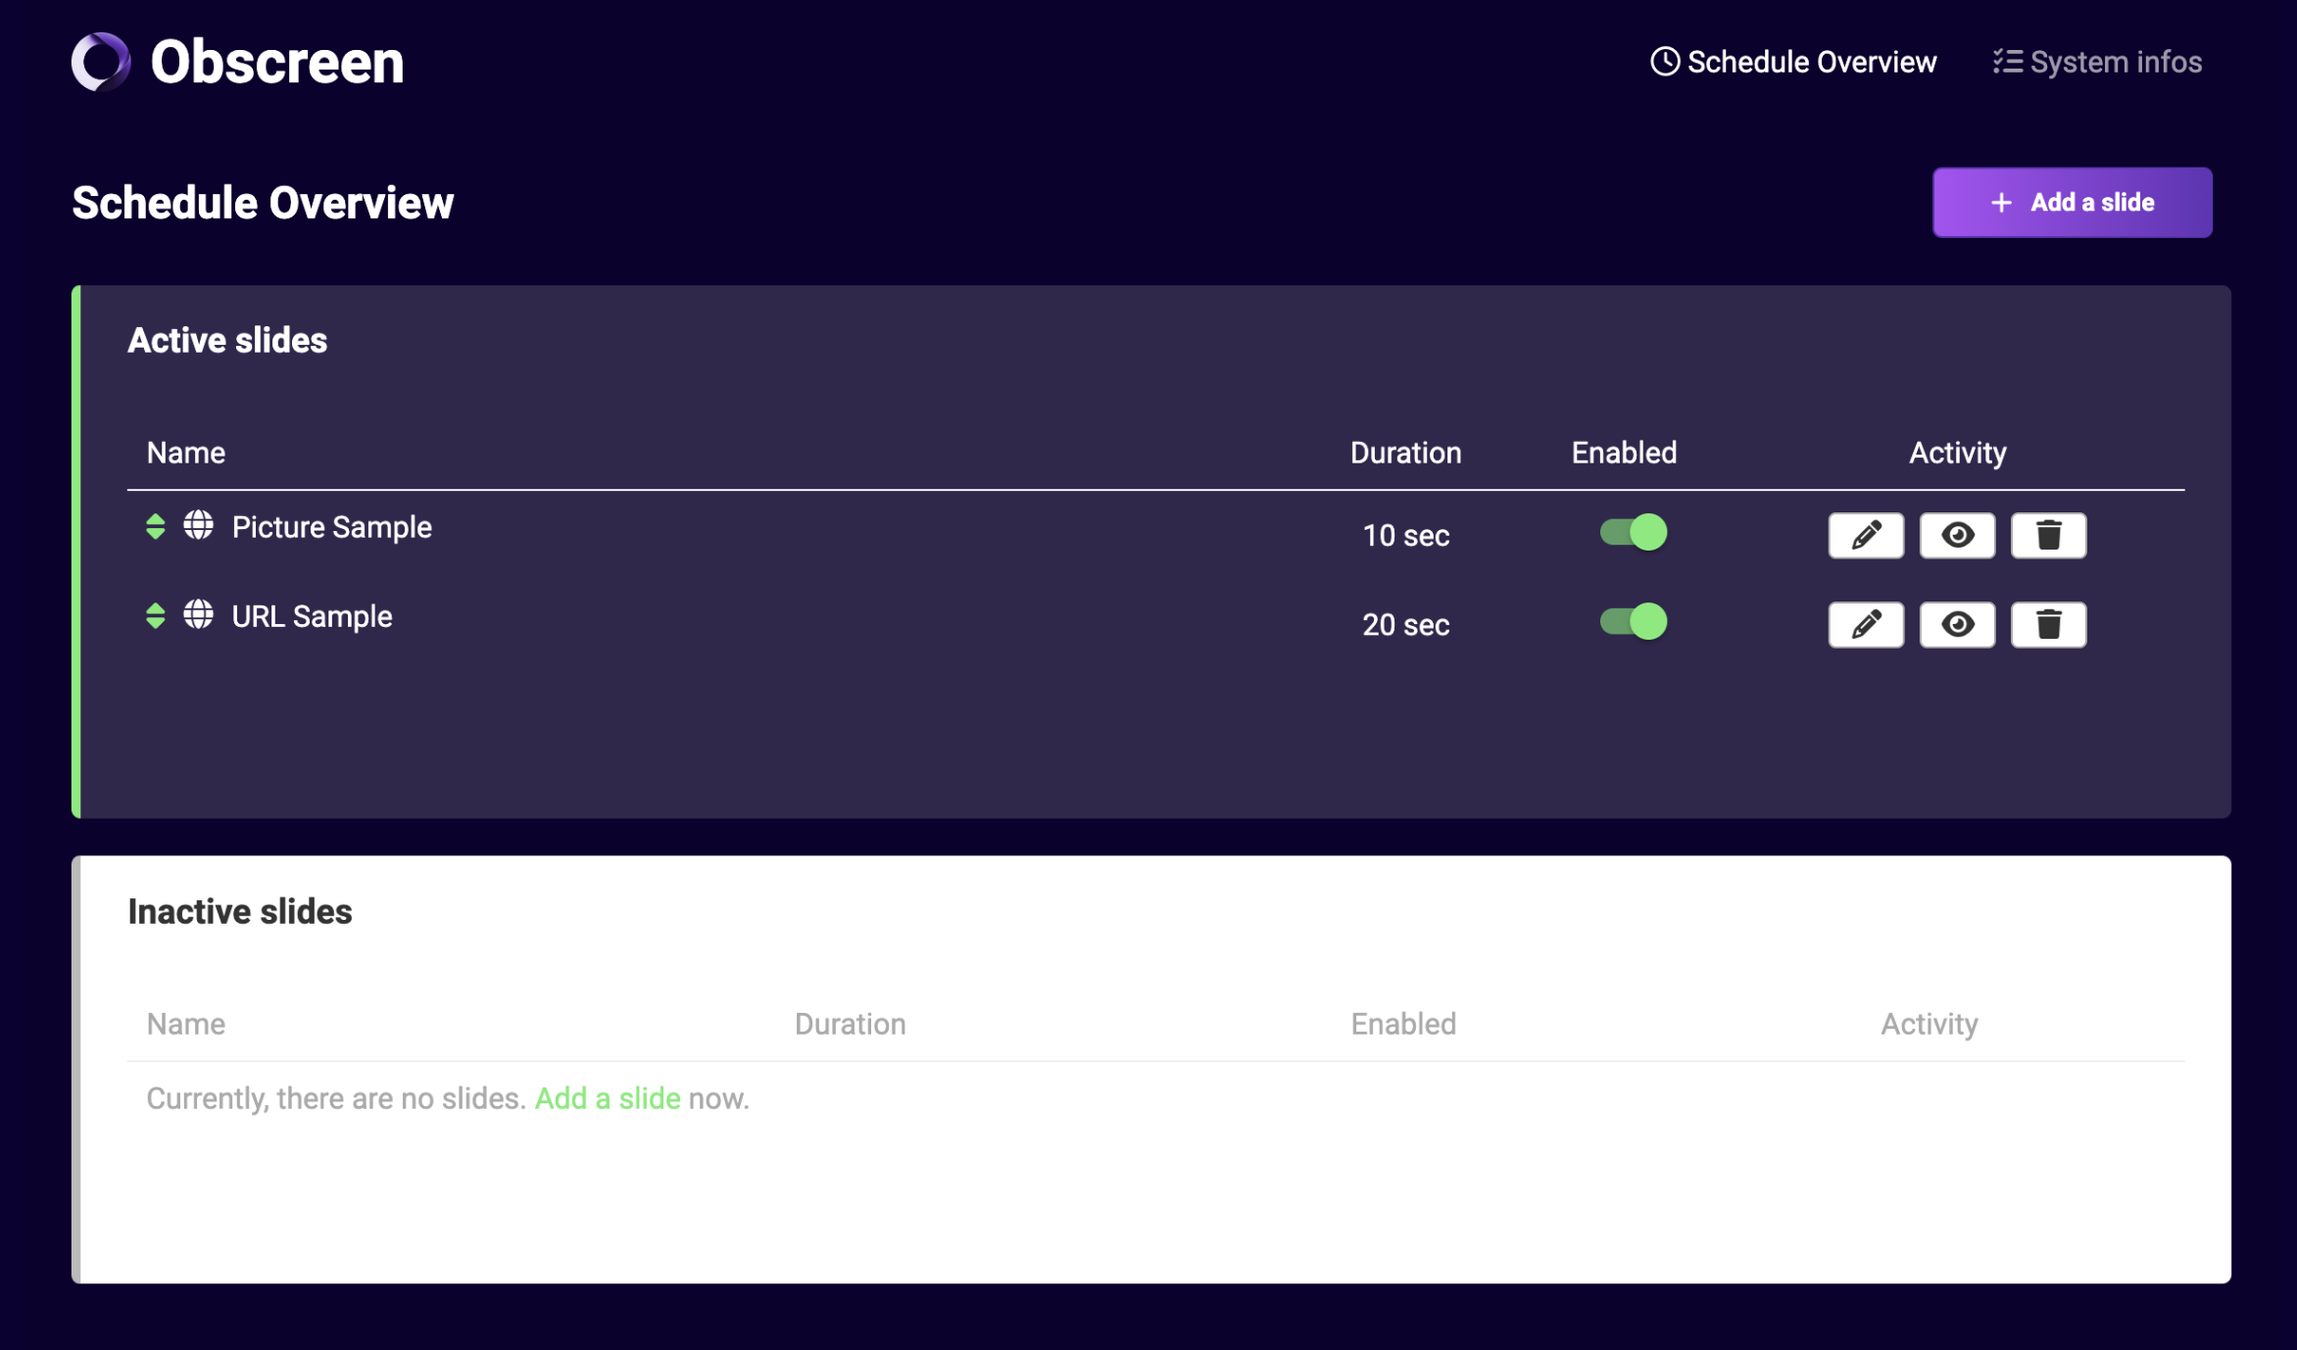
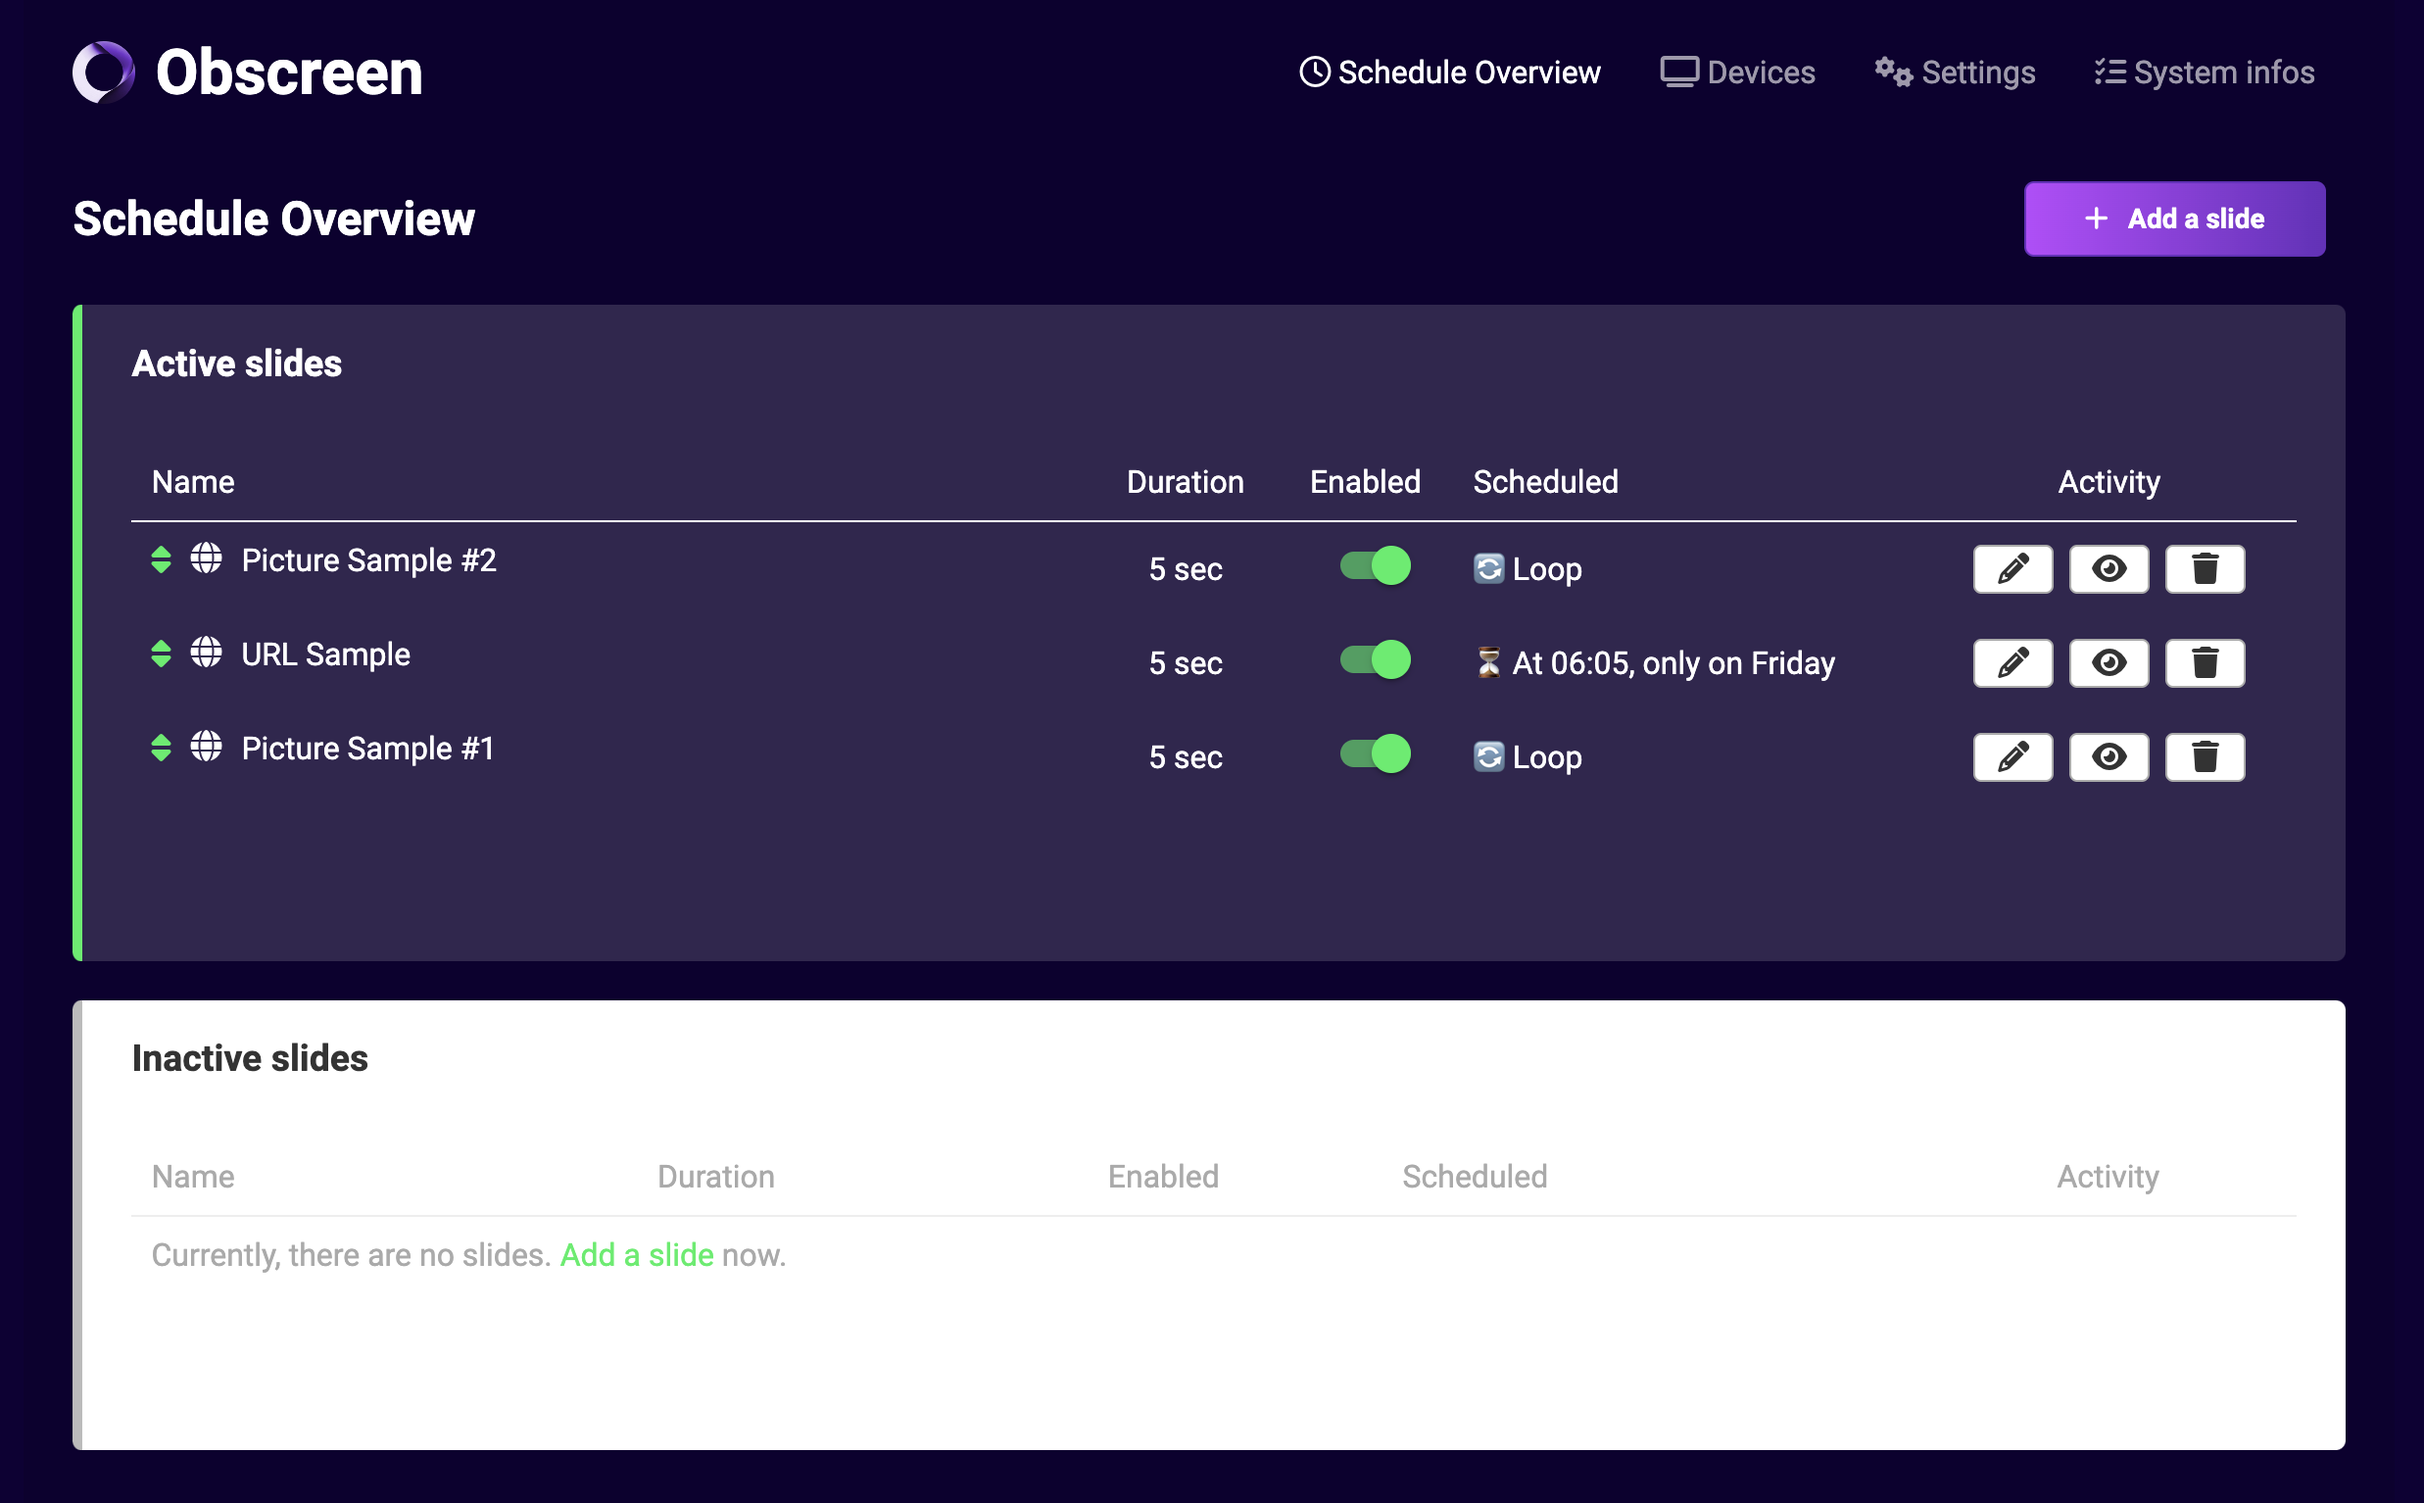
cron schedule fully working on backend

diff --git a/data/www/js/slideshow.js b/data/www/js/slideshow.js
@@ -49,7 +49,7 @@ jQuery(document).ready(function ($) {
         });
     };
 
-    $(document).on('change', 'input[type=checkbox]', function () {
+    $(document).on('change', '.slide-item input[type=checkbox]', function () {
         $.ajax({
             url: '/slideshow/slide/toggle',
             headers: {'Content-Type': 'application/json'},
@@ -66,6 +66,16 @@ jQuery(document).ready(function ($) {
         }
 
         updateTable();
+    });
+
+    $(document).on('change', '.modal-slide input[type=checkbox]', function () {
+        const $target = $('#'+ $(this).attr('id').replace('-trigger', ''));
+        const hide = !$(this).is(':checked');
+        $target.toggleClass('hidden', hide);
+
+        if (hide) {
+            $target.val('');
+        }
     });
 
     $(document).on('change', '#slide-add-type', function () {
@@ -95,11 +105,14 @@ jQuery(document).ready(function ($) {
     $(document).on('click', '.slide-edit', function () {
         const slide = JSON.parse($(this).parents('tr:eq(0)').attr('data-entity'));
         showModal('modal-slide-edit');
+        const hasCron = slide.cron_schedule && slide.cron_schedule.length > 0;
         $('.modal-slide-edit input:visible:eq(0)').focus().select();
         $('#slide-edit-name').val(slide.name);
         $('#slide-edit-type').val(slide.type);
         $('#slide-edit-location').val(slide.location);
         $('#slide-edit-duration').val(slide.duration);
+        $('#slide-edit-cron-schedule').val(slide.cron_schedule).toggleClass('hidden', !hasCron);
+        $('#slide-edit-cron-schedule-trigger').prop('checked', hasCron);
         $('#slide-edit-id').val(slide.id);
     });
 

diff --git a/views/slideshow/component/table.jinja.html b/views/slideshow/component/table.jinja.html
@@ -4,6 +4,7 @@
         <th>{{ l.slideshow_slide_panel_th_name }}</th>
         <th class="tac">{{ l.slideshow_slide_panel_th_duration }}</th>
         <th class="tac">{{ l.slideshow_slide_panel_th_enabled }}</th>
+        <th class="">{{ l.slideshow_slide_panel_th_cron_scheduled }}</th>
         <th class="tac">{{ l.slideshow_slide_panel_th_activity }}</th>
     </tr>
     </thead>
@@ -41,6 +42,18 @@
                 <label class="pure-material-switch">
                     <input type="checkbox" {% if slide.enabled %}checked="checked"{% endif %}><span></span>
                 </label>
+            </td>
+            <td class="">
+                {% if slide.cron_schedule %}
+                    {% set cron_desc = cron_descriptor(slide.cron_schedule)  %}
+                    {% if cron_desc %}
+                        ⏳ {{ cron_desc }}
+                    {% else %}
+                        <span class="error">⚠ {{ l.slideshow_slide_panel_td_cron_scheduled_bad_cron }}</span>
+                    {% endif %}
+                {% else %}
+                    🔄 {{ l.slideshow_slide_panel_td_cron_scheduled_loop }}
+                {% endif %}
             </td>
             <td class="actions tac">
                 <a href="javascript:void(0);" class="item-edit slide-edit">

diff --git a/views/slideshow/modal/edit.jinja.html b/views/slideshow/modal/edit.jinja.html
@@ -1,4 +1,4 @@
-<div class="modal modal-slide-edit hidden">
+<div class="modal modal-slide-edit modal-slide hidden">
     <h2>
         {{ l.slideshow_slide_form_edit_submit }}
     </h2>
@@ -35,6 +35,14 @@
             <div class="widget">
                 <input type="number" name="duration" id="slide-edit-duration" required="required" />
                 <span>{{ l.slideshow_slide_form_label_duration_unit }}</span>
+            </div>
+        </div>
+
+        <div class="form-group">
+            <label for="slide-edit-cron-schedule">{{ l.slideshow_slide_form_label_cron_scheduled }}</label>
+            <div class="widget">
+                <input type="checkbox" id="slide-edit-cron-schedule-trigger" class="trigger" />
+                <input type="text" name="cron_schedule" id="slide-edit-cron-schedule" placeholder="{{ l.slideshow_slide_form_widget_cron_scheduled_placeholder }}" class="hidden" />
             </div>
         </div>
 

diff --git a/views/slideshow/modal/add.jinja.html b/views/slideshow/modal/add.jinja.html
@@ -1,4 +1,4 @@
-<div class="modal modal-slide-add">
+<div class="modal modal-slide-add modal-slide">
     <h2>
         {{ l.slideshow_slide_form_add_title }}
     </h2>
@@ -35,6 +35,14 @@
             <div class="widget">
                 <input type="number" name="duration" id="slide-add-duration" required="required" />
                 <span>{{ l.slideshow_slide_form_label_duration_unit }}</span>
+            </div>
+        </div>
+
+         <div class="form-group">
+            <label for="slide-add-cron-schedule">{{ l.slideshow_slide_form_label_cron_scheduled }}</label>
+            <div class="widget">
+                <input type="checkbox" id="slide-add-cron-schedule-trigger" class="trigger" />
+                <input type="text" name="cron_schedule" id="slide-add-cron-schedule" placeholder="{{ l.slideshow_slide_form_widget_cron_scheduled_placeholder }}" class="hidden" />
             </div>
         </div>
 

diff --git a/data/www/css/main.css b/data/www/css/main.css
@@ -512,6 +512,14 @@ form .form-group textarea {
     width: auto;
 }
 
+form .form-group input[type=checkbox] {
+    flex: 0;
+}
+
+form .form-group input[type=checkbox].trigger {
+    margin-right: 10px;
+}
+
 form .form-group span {
     margin-left: 10px;
 }

diff --git a/src/service/TemplateRenderer.py b/src/service/TemplateRenderer.py
@@ -1,6 +1,8 @@
 import os
 
 from flask import Flask, send_from_directory, Markup
+from cron_descriptor import ExpressionDescriptor
+from cron_descriptor.Exception import FormatException, WrongArgumentException, MissingFieldException
 from typing import List
 from jinja2 import Environment, FileSystemLoader, select_autoescape
 from src.service.ModelStore import ModelStore
@@ -18,6 +20,22 @@ class TemplateRenderer:
         self._model_store = model_store
         self._render_hook = render_hook
 
+    def cron_descriptor(self, expression: str, use_24hour_time_format=True) -> str:
+        try:
+            return str(
+                ExpressionDescriptor(
+                    expression=expression,
+                    use_24hour_time_format=use_24hour_time_format,
+                    locale_code=self._model_store.lang().get_locale(local_with_country=True)
+                )
+            )
+        except FormatException:
+            return ''
+        except WrongArgumentException:
+            return ''
+        except MissingFieldException:
+            return ''
+
     def get_view_globals(self) -> dict:
         globals = dict(
             STATIC_PREFIX="/{}/{}/".format(WebDirConstant.FOLDER_STATIC, WebDirConstant.FOLDER_STATIC_WEB_ASSETS),
@@ -25,6 +43,7 @@ class TemplateRenderer:
             VERSION=self._model_store.config().map().get('version'),
             LANG=self._model_store.variable().map().get('lang').as_string(),
             HOOK=self._render_hook,
+            cron_descriptor=self.cron_descriptor
         )
 
         for hook in HookType:

diff --git a/src/model/entity/Slide.py b/src/model/entity/Slide.py
@@ -7,14 +7,14 @@ from src.utils import str_to_enum
 
 class Slide:
 
-    def __init__(self, location: str = '', duration: int = 3, type: Union[SlideType, str] = SlideType.URL, enabled: bool = False, name: str = 'Untitled', position: int = 999, id: Optional[str] = None, cron_schedule: str = ''):
+    def __init__(self, location: str = '', duration: int = 3, type: Union[SlideType, str] = SlideType.URL, enabled: bool = False, name: str = 'Untitled', position: int = 999, id: Optional[str] = None, cron_schedule: Optional[str] = None):
         self._id = id if id else None
         self._location = location
         self._duration = duration
         self._type = str_to_enum(type, SlideType) if isinstance(type, str) else type
         self._enabled = enabled
         self._name = name
-        self._position = position,
+        self._position = position
         self._cron_schedule = cron_schedule
 
     @property
@@ -38,11 +38,11 @@ class Slide:
         self._type = value
 
     @property
-    def cron_schedule(self) -> str:
+    def cron_schedule(self) -> Optional[str]:
         return self._cron_schedule
 
     @cron_schedule.setter
-    def cron_schedule(self, value: str):
+    def cron_schedule(self, value: Optional[str]):
         self._cron_schedule = value
 
     @property

diff --git a/src/controller/SlideshowController.py b/src/controller/SlideshowController.py
@@ -8,7 +8,7 @@ from src.service.ModelStore import ModelStore
 from src.model.entity.Slide import Slide
 from src.model.enum.SlideType import SlideType
 from src.interface.ObController import ObController
-from src.utils import str_to_enum
+from src.utils import str_to_enum, get_optional_string
 
 
 class SlideshowController(ObController):
@@ -40,6 +40,7 @@ class SlideshowController(ObController):
             name=request.form['name'],
             type=str_to_enum(request.form['type'], SlideType),
             duration=request.form['duration'],
+            cron_schedule=get_optional_string(request.form['cron_schedule']),
         )
 
         if slide.has_file():
@@ -65,7 +66,7 @@ class SlideshowController(ObController):
         return redirect(url_for('slideshow_slide_list'))
 
     def slideshow_slide_edit(self):
-        self._model_store.slide().update_form(request.form['id'], request.form['name'], request.form['duration'])
+        self._model_store.slide().update_form(request.form['id'], request.form['name'], request.form['duration'], request.form['cron_schedule'])
         self._post_update()
         return redirect(url_for('slideshow_slide_list'))
 

diff --git a/src/manager/SlideManager.py b/src/manager/SlideManager.py
@@ -2,7 +2,7 @@ import os
 
 from typing import Dict, Optional, List, Tuple, Union
 from src.model.entity.Slide import Slide
-from src.utils import str_to_enum
+from src.utils import str_to_enum, get_optional_string
 from pysondb import PysonDB
 from pysondb.errors import IdDoesNotExistError
 
@@ -69,8 +69,12 @@ class SlideManager:
         for slide_id, slide_position in positions.items():
             self._db.update_by_id(slide_id, {"position": slide_position})
 
-    def update_form(self, id: str, name: str, duration: int) -> None:
-        self._db.update_by_id(id, {"name": name, "duration": duration})
+    def update_form(self, id: str, name: str, duration: int, cron_schedule: Optional[str] = '') -> None:
+        self._db.update_by_id(id, {
+            "name": name,
+            "duration": duration,
+            "cron_schedule": get_optional_string(cron_schedule)
+        })
 
     def add_form(self, slide: Union[Slide, Dict]) -> None:
         db_slide = slide

diff --git a/src/service/WebServer.py b/src/service/WebServer.py
@@ -33,7 +33,6 @@ class WebServer:
     def setup(self) -> None:
         self._setup_flask_app()
         self._setup_web_globals()
-        self._setup_web_extensions()
         self._setup_web_errors()
         self._setup_web_controllers()
 
@@ -73,12 +72,8 @@ class WebServer:
         def inject_global_vars() -> dict:
             return self._template_renderer.get_view_globals()
 
-    def _setup_web_extensions(self) -> None:
-        @self._app.template_filter('ctime')
-        def time_ctime(s):
-            return time.ctime(s)
-
     def _setup_web_errors(self) -> None:
         @self._app.errorhandler(404)
         def not_found(e):
             return send_from_directory(self._get_template_folder(), 'core/error404.html'), 404
+

diff --git a/src/manager/LangManager.py b/src/manager/LangManager.py
@@ -8,7 +8,7 @@ class LangManager:
 
     def __init__(self, lang: str):
         self._map = {}
-        self._lang = lang
+        self._lang = lang.lower()
         self.load()
 
     def load(self, directory: str = "", prefix: str = ""):
@@ -23,3 +23,6 @@ class LangManager:
 
     def map(self) -> dict:
         return self._map
+
+    def get_locale(self, local_with_country: bool = False) -> str:
+        return "{}_{}".format(self._lang, self._lang.upper()) if local_with_country else self._lang

diff --git a/src/utils.py b/src/utils.py
@@ -6,6 +6,17 @@ from typing import Optional, List
 from enum import Enum
 
 
+def get_optional_string(var: Optional[str]) -> Optional[str]:
+    if var is None:
+        return None
+
+    var = var.strip()
+
+    if var:
+        return var
+
+    return None
+
 def get_keys(dict_or_object, key_list_name: str, key_attr_name: str = 'key') -> Optional[List]:
     if dict_or_object is None:
         return None
